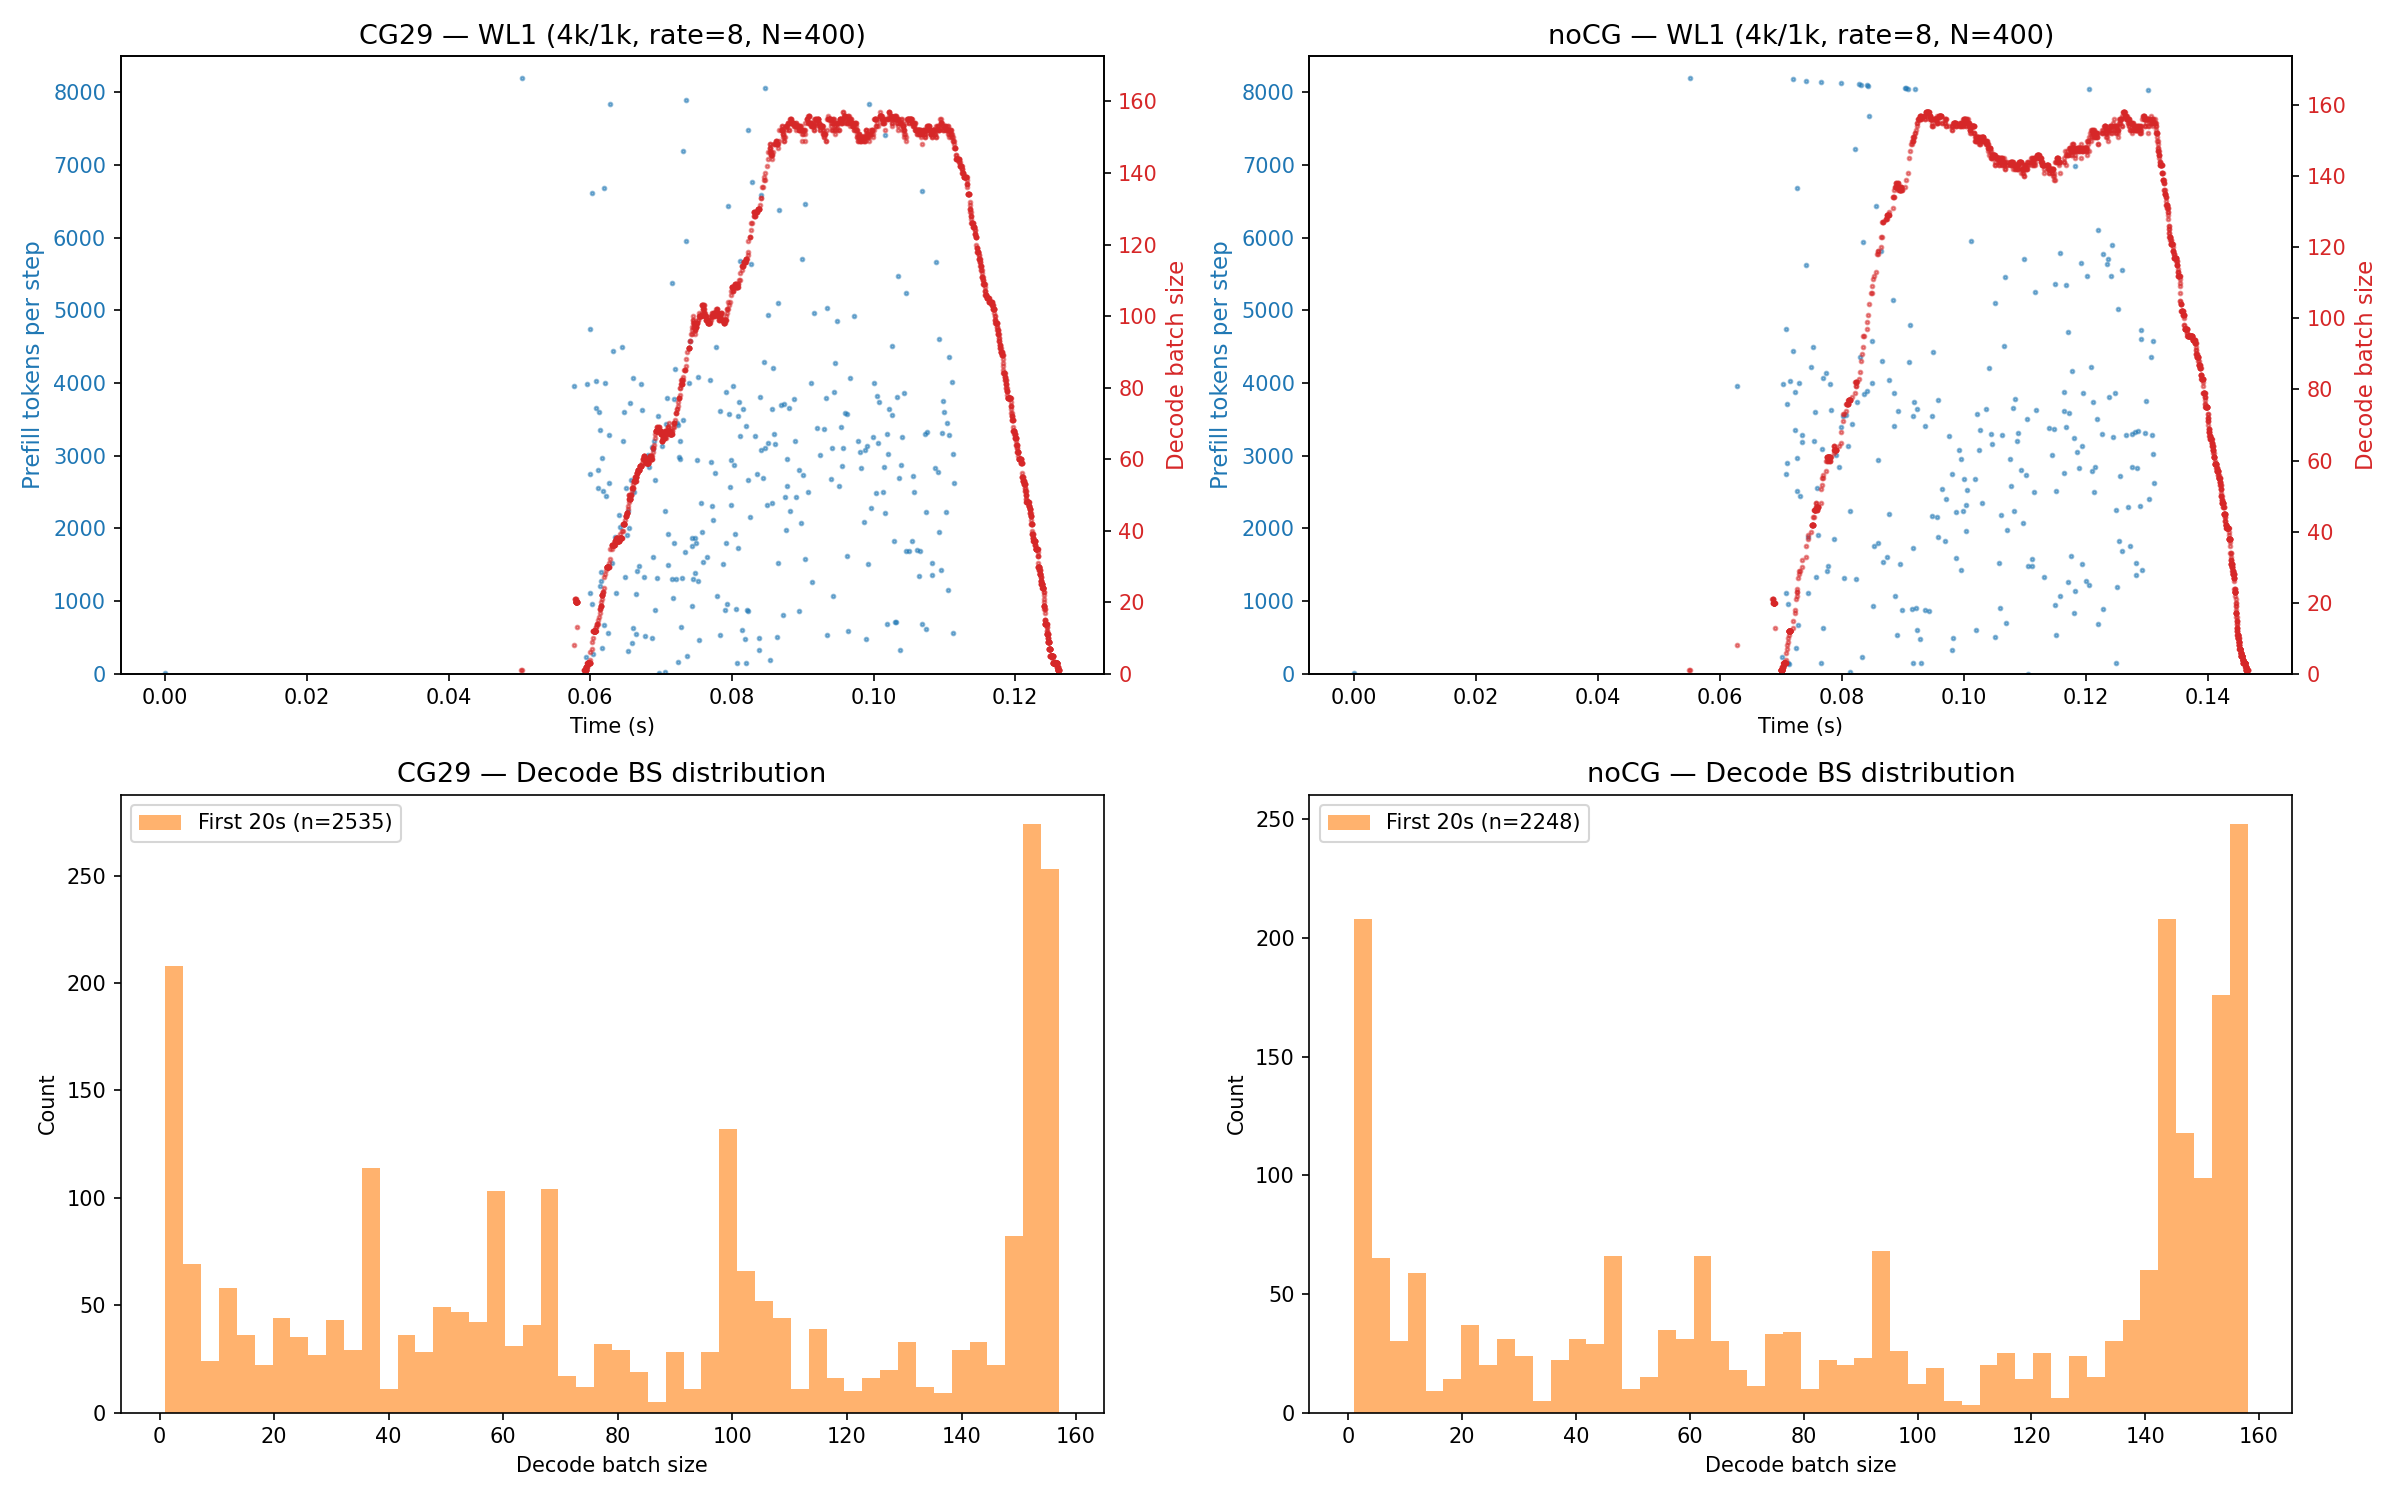
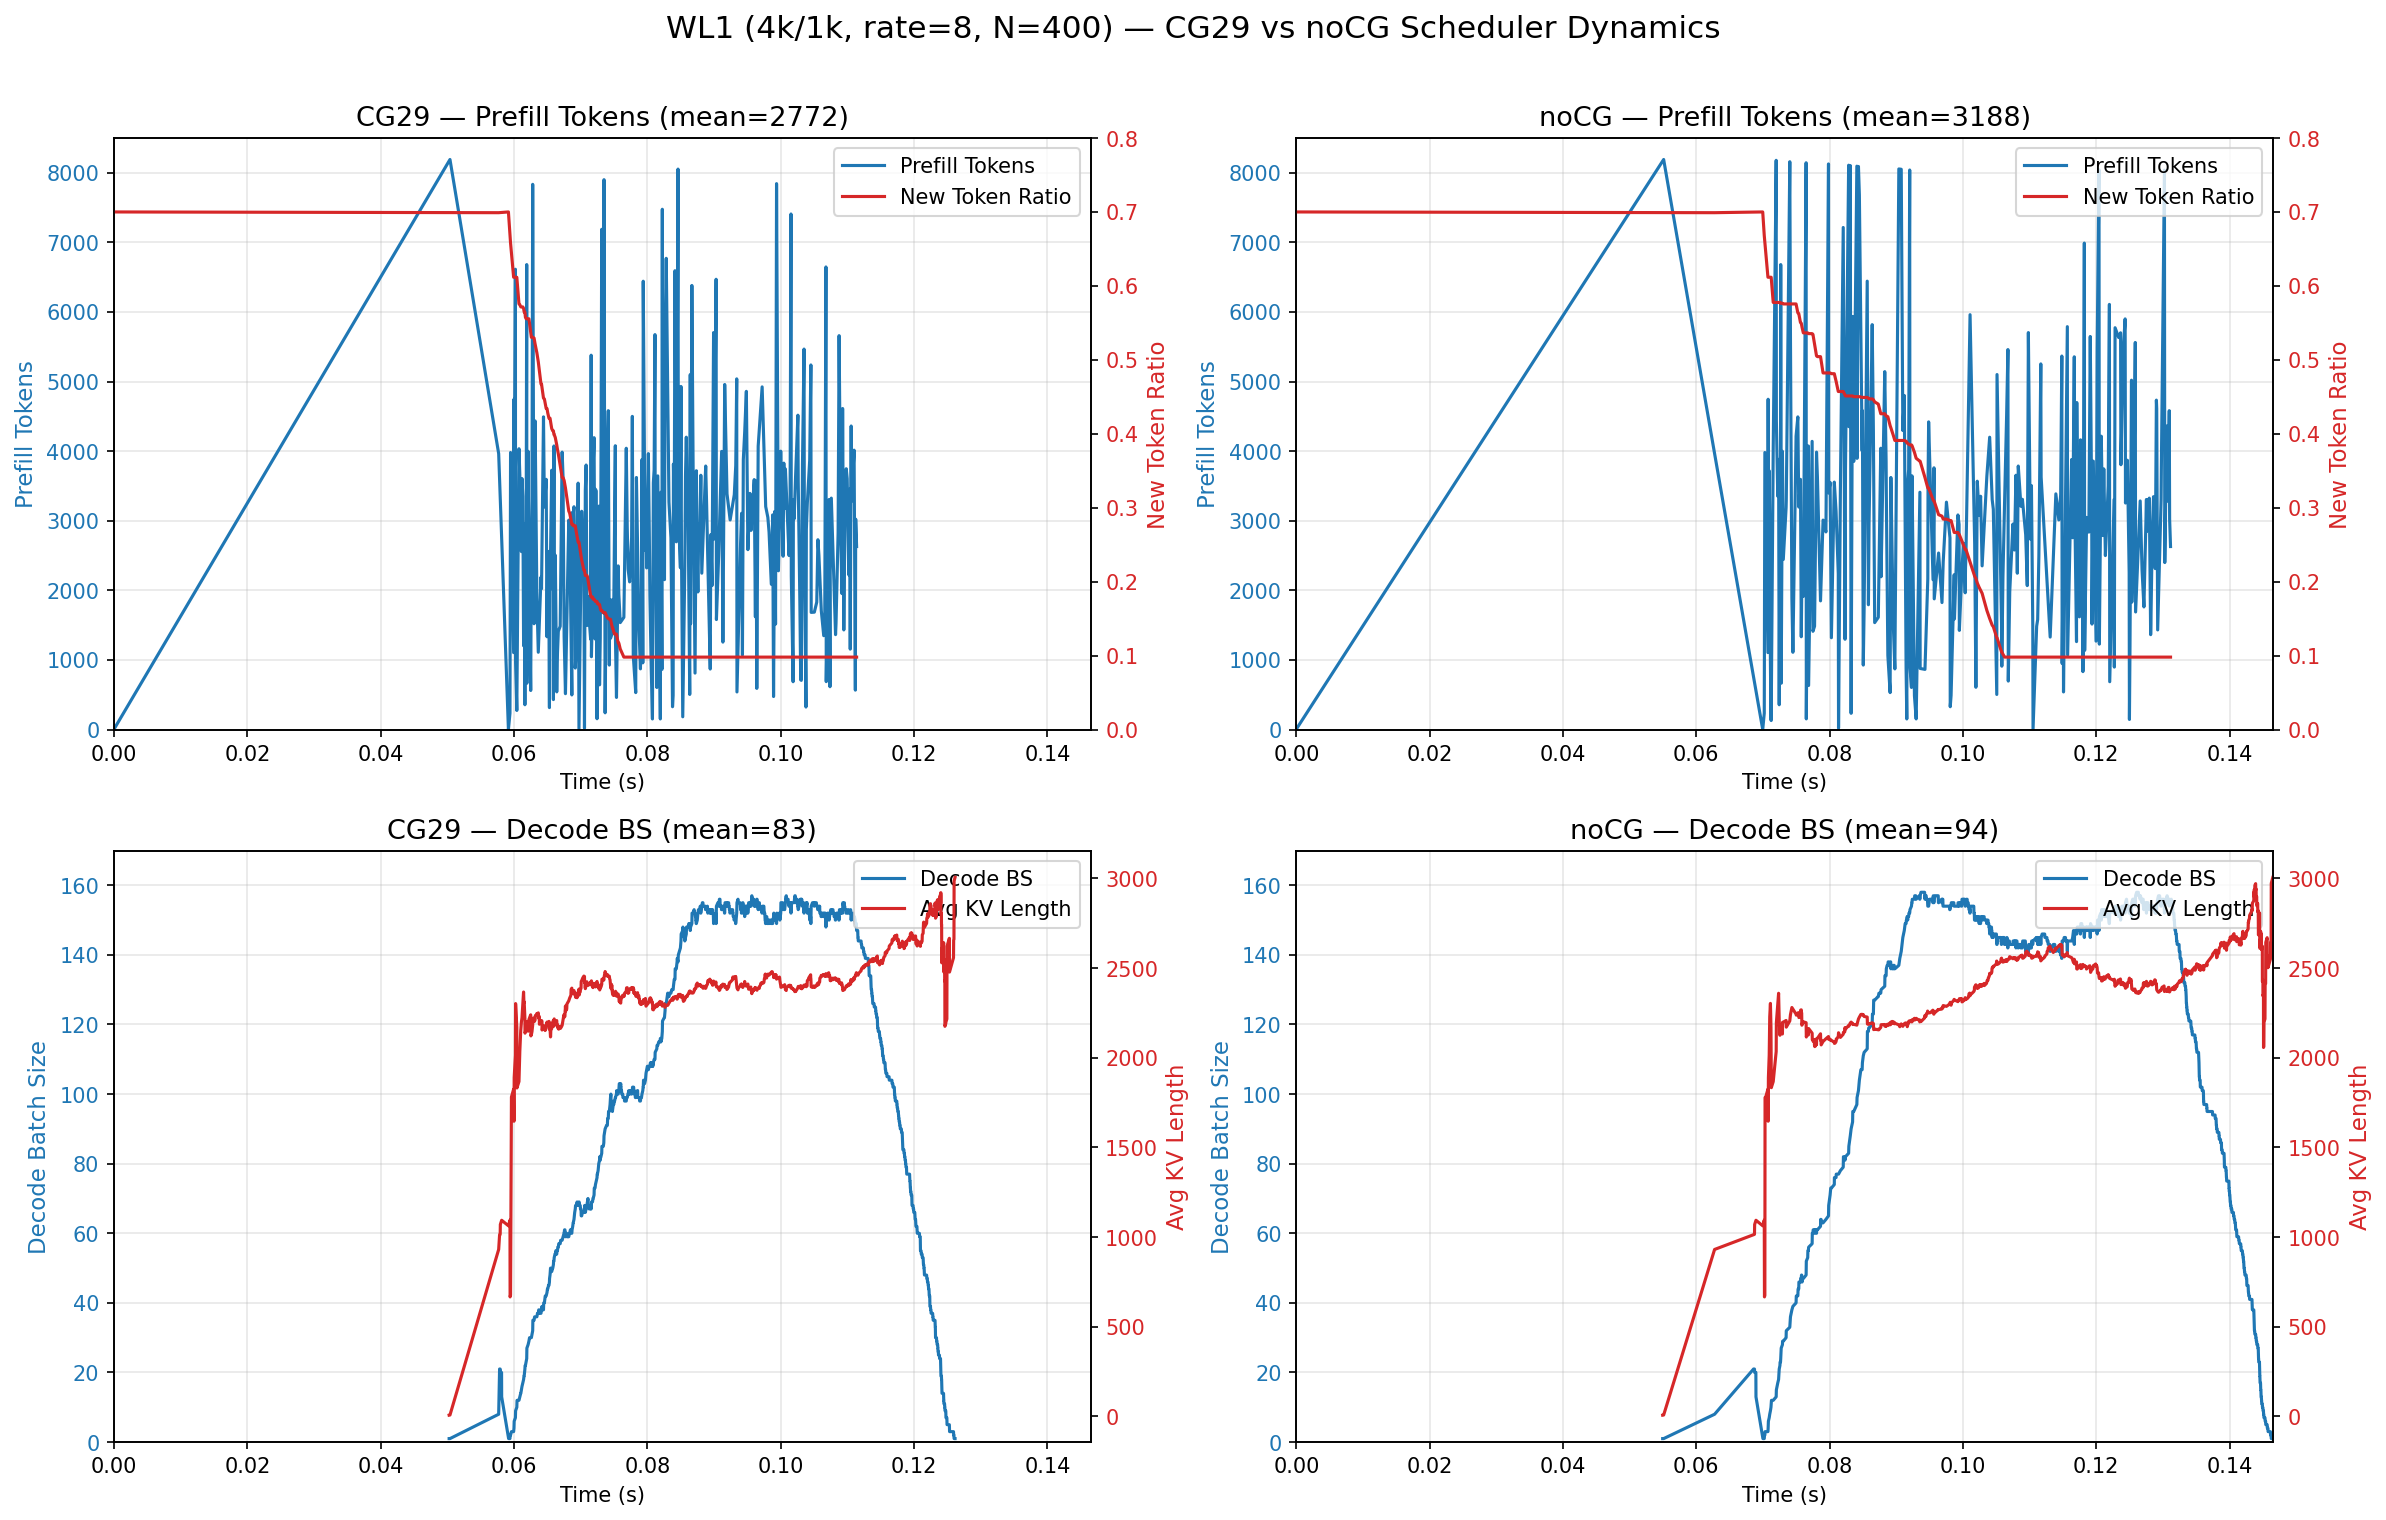
unified 4-panel scheduler plot with shared x-axis for CG29 vs noCG WL1

diff --git a/tasks/debug_kernel_server_perf.md b/tasks/debug_kernel_server_perf.md
@@ -243,17 +243,7 @@ Commit: sglang `090b86f5`, flashinfer `02b068f0`. Script: `run_one_config.sh` / 
 
   **Scheduler analysis** (`--plot-chunk-size`, WL1 only, rate=8 N=400): CG29 completes in ~76s vs noCG ~91s (17% faster). Prefill chunks: CG29 mean 2,781 vs noCG 3,200 tokens — CG processes mixed batches faster → scheduler issues more frequent, smaller chunks. Decode BS ramps up slightly faster with CG (peak ~150 by 15s vs 20s).
 
-  **CG29 prefill chunks + new_token_ratio:**
-  ![CG29 prefill](./debug_kernel_server_perf/profile_logs/chunk_plots_cg29/chunk_size_trend_prefill_mean_2781.2.png)
-
-  **noCG prefill chunks + new_token_ratio:**
-  ![noCG prefill](./debug_kernel_server_perf/profile_logs/chunk_plots_nocg/chunk_size_trend_prefill_mean_3200.1.png)
-
-  **CG29 decode BS + avg KV:**
-  ![CG29 decode](./debug_kernel_server_perf/profile_logs/chunk_plots_cg29/chunk_size_trend_decode_mean_2394.5.png)
-
-  **noCG decode BS + avg KV:**
-  ![noCG decode](./debug_kernel_server_perf/profile_logs/chunk_plots_nocg/chunk_size_trend_decode_mean_2402.8.png)
+  ![CG29 vs noCG scheduler WL1](./debug_kernel_server_perf/profile_logs/cg_vs_nocg_scheduler_wl1.png)
 
 - [x] **Unify LPT profile workloads**: Done — Cases 1-9 (100 decode), split-KV decode/prefill.
 - [x] **nsys profile LPT+CG29 vs trueDMC** (WL1, 50 prompts, rate=8):
